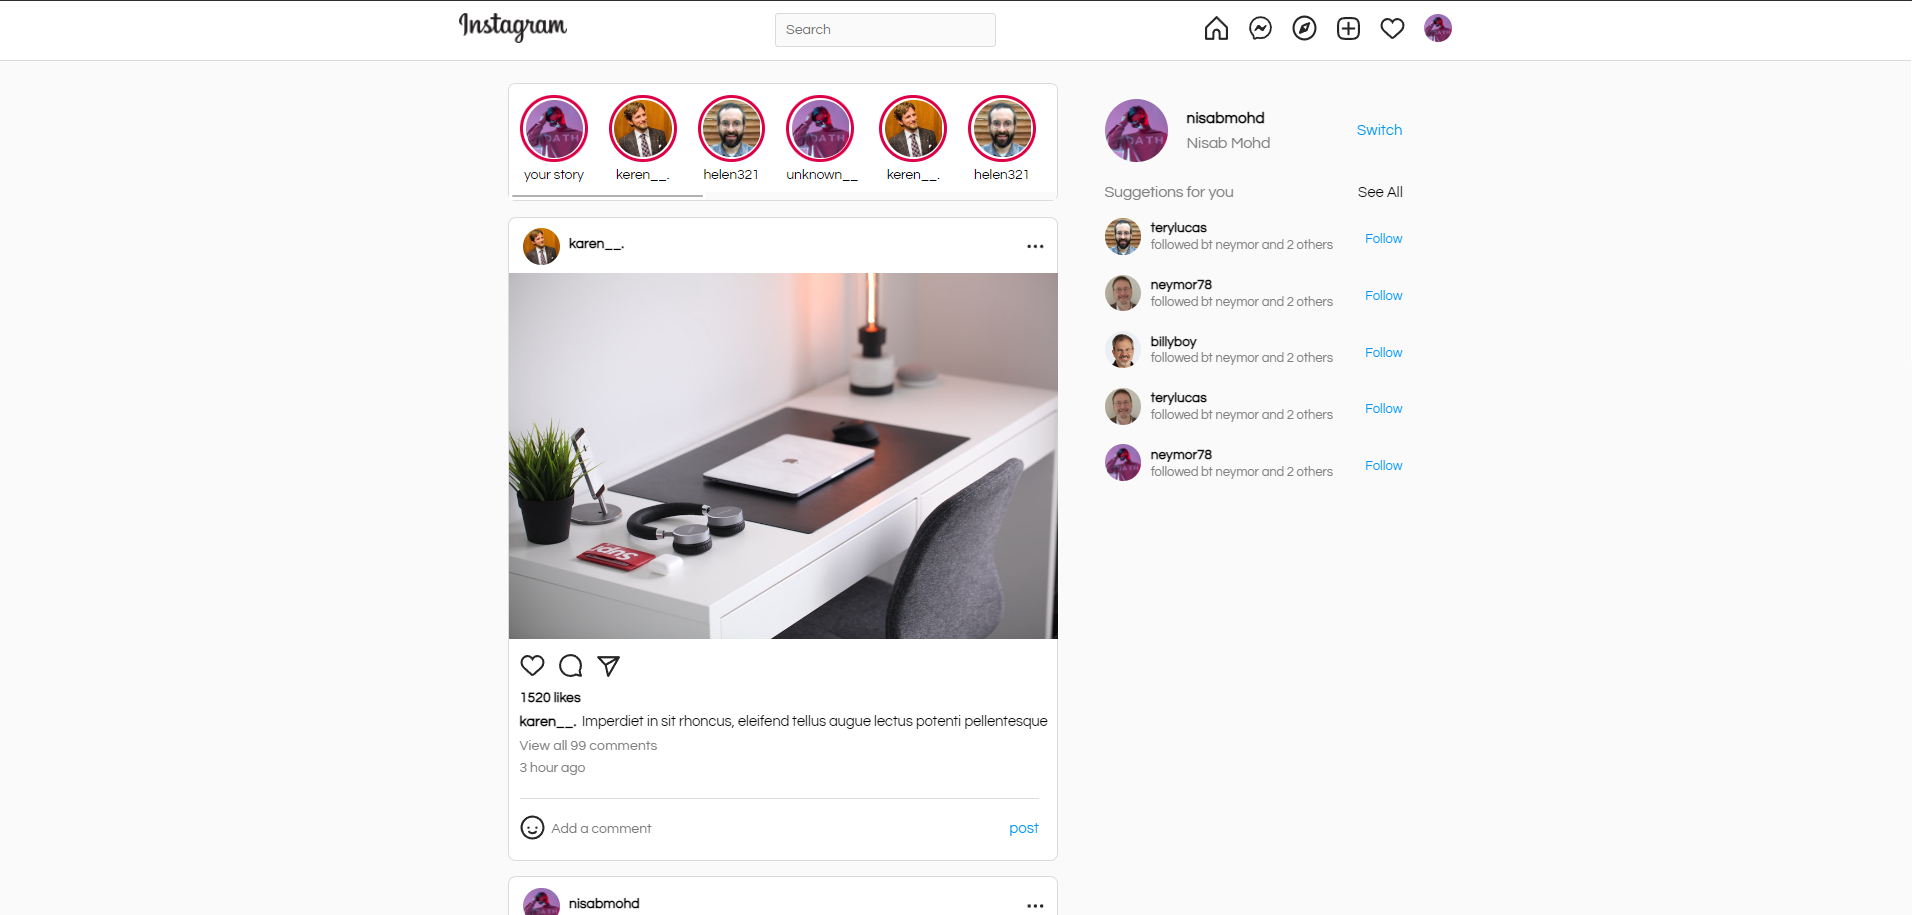
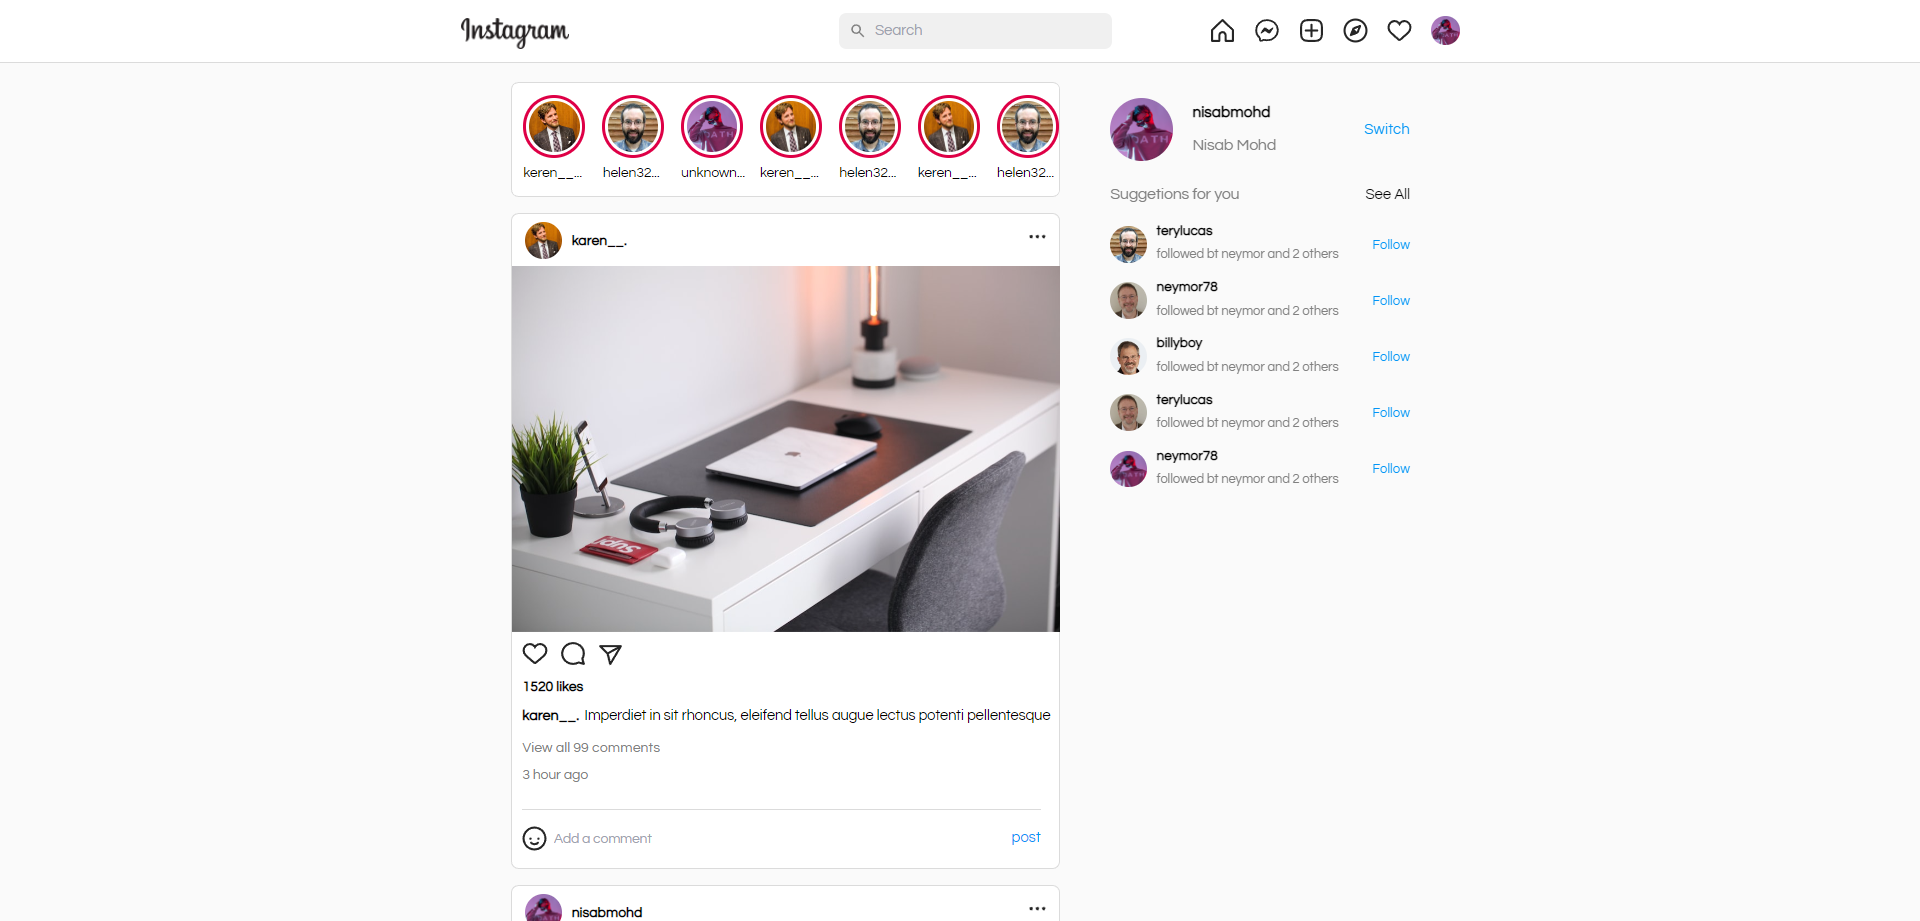
commit explore and notification ui

diff --git a/frontend/src/components/navbar/Navbar.jsx b/frontend/src/components/navbar/Navbar.jsx
@@ -84,7 +84,6 @@ export const Navbar = () => {
             id="account-menu"
             open={openNot}
             onClose={handleCloseNot}
-            onClick={handleCloseNot}
             PaperProps={{
               elevation: 0,
               sx: {
@@ -118,29 +117,23 @@ export const Navbar = () => {
           >
             <div style={{ height: '390px', display: 'flex', flexDirection: 'column', overflowY: 'scroll', }}>
 
-              <div style={{ fontSize: '14px', fontFamily: 'Questrial', borderBottom: '1px solid #d6d6d6', padding: '15px 15px' }}>
-                <Notification username="nisabmohd" avatar="https://firebasestorage.googleapis.com/v0/b/upload-pics-e599e.appspot.com/o/images%2F05407c79-a3dc-46d0-bc35-2b0b0a59374d.png?alt=media&token=65e0ba5c-5b86-463f-8364-d4f4ebc1ad8a" content="Followed you" time="13m" />
+              <div style={{ fontSize: '14px', fontFamily: 'Questrial',padding: '15px 25px' }}>
+                <Notification username="nisabmohd" avatar="https://firebasestorage.googleapis.com/v0/b/upload-pics-e599e.appspot.com/o/images%2F05407c79-a3dc-46d0-bc35-2b0b0a59374d.png?alt=media&token=65e0ba5c-5b86-463f-8364-d4f4ebc1ad8a" content="Started following you . " followbtn={true} time="13m" />
               </div>
-              <div style={{ fontSize: '14px', fontFamily: 'Questrial', borderBottom: '1px solid #d6d6d6', padding: '15px 15px' }}>
-                <Notification username="karen01" avatar="https://1.gravatar.com/avatar/767fc9c115a1b989744c755db47feb60?s=200&r=pg&d=mp" content="Commented on your post" time="13m" />
+              <div style={{ fontSize: '14px', fontFamily: 'Questrial',padding: '15px 25px' }}>
+                <Notification username="karen01" avatar="https://1.gravatar.com/avatar/767fc9c115a1b989744c755db47feb60?s=200&r=pg&d=mp" content="Commented : Nice Pic" time="13m" img={true} />
               </div>
-              <div style={{ fontSize: '14px', fontFamily: 'Questrial', borderBottom: '1px solid #d6d6d6', padding: '15px 15px' }}>
-                <Notification username="nisabmohd" avatar="https://firebasestorage.googleapis.com/v0/b/upload-pics-e599e.appspot.com/o/images%2F05407c79-a3dc-46d0-bc35-2b0b0a59374d.png?alt=media&token=65e0ba5c-5b86-463f-8364-d4f4ebc1ad8a" content="Followed you" time="13m" />
+              <div style={{ fontSize: '14px', fontFamily: 'Questrial',padding: '15px 25px' }}>
+                <Notification username="nisabmohd" avatar="https://firebasestorage.googleapis.com/v0/b/upload-pics-e599e.appspot.com/o/images%2F05407c79-a3dc-46d0-bc35-2b0b0a59374d.png?alt=media&token=65e0ba5c-5b86-463f-8364-d4f4ebc1ad8a" content="Started following you . " followbtn={true} time="13m" />
               </div>
-              <div style={{ fontSize: '14px', fontFamily: 'Questrial', borderBottom: '1px solid #d6d6d6', padding: '15px 15px' }}>
-                <Notification username="karen01" avatar="https://1.gravatar.com/avatar/767fc9c115a1b989744c755db47feb60?s=200&r=pg&d=mp" content="Commented on your post" time="13m" />
+              <div style={{ fontSize: '14px', fontFamily: 'Questrial',padding: '15px 25px' }}>
+                <Notification username="nisabmohd" avatar="https://firebasestorage.googleapis.com/v0/b/upload-pics-e599e.appspot.com/o/images%2F05407c79-a3dc-46d0-bc35-2b0b0a59374d.png?alt=media&token=65e0ba5c-5b86-463f-8364-d4f4ebc1ad8a" content="Started following you . " followbtn={true} time="13m" />
               </div>
-              <div style={{ fontSize: '14px', fontFamily: 'Questrial', borderBottom: '1px solid #d6d6d6', padding: '15px 15px' }}>
-                <Notification username="nisabmohd" avatar="https://firebasestorage.googleapis.com/v0/b/upload-pics-e599e.appspot.com/o/images%2F05407c79-a3dc-46d0-bc35-2b0b0a59374d.png?alt=media&token=65e0ba5c-5b86-463f-8364-d4f4ebc1ad8a" content="Followed you" time="13m" />
+              <div style={{ fontSize: '14px', fontFamily: 'Questrial',padding: '15px 25px' }}>
+                <Notification username="karen01" avatar="https://1.gravatar.com/avatar/767fc9c115a1b989744c755db47feb60?s=200&r=pg&d=mp" img={true} content="Liked your post" time="13m" />
               </div>
-              <div style={{ fontSize: '14px', fontFamily: 'Questrial', borderBottom: '1px solid #d6d6d6', padding: '15px 15px' }}>
-                <Notification username="karen01" avatar="https://1.gravatar.com/avatar/767fc9c115a1b989744c755db47feb60?s=200&r=pg&d=mp" content="Commented on your post" time="13m" />
-              </div>
-              <div style={{ fontSize: '14px', fontFamily: 'Questrial', borderBottom: '1px solid #d6d6d6', padding: '15px 15px' }}>
-                <Notification username="nisabmohd" avatar="https://firebasestorage.googleapis.com/v0/b/upload-pics-e599e.appspot.com/o/images%2F05407c79-a3dc-46d0-bc35-2b0b0a59374d.png?alt=media&token=65e0ba5c-5b86-463f-8364-d4f4ebc1ad8a" content="Followed you" time="13m" />
-              </div>
-              <div style={{ fontSize: '14px', fontFamily: 'Questrial', borderBottom: '1px solid #d6d6d6', padding: '15px 15px' }}>
-                <Notification username="karen01" avatar="https://1.gravatar.com/avatar/767fc9c115a1b989744c755db47feb60?s=200&r=pg&d=mp" content="Commented on your post" time="13m" />
+              <div style={{ fontSize: '14px', fontFamily: 'Questrial',padding: '15px 25px' }}>
+                <Notification username="nisabmohd" avatar="https://firebasestorage.googleapis.com/v0/b/upload-pics-e599e.appspot.com/o/images%2F05407c79-a3dc-46d0-bc35-2b0b0a59374d.png?alt=media&token=65e0ba5c-5b86-463f-8364-d4f4ebc1ad8a" content="Started following you . " followbtn={true} time="13m" />
               </div>
             </div>
 

diff --git a/frontend/src/components/explore/Masonary.jsx b/frontend/src/components/explore/Masonary.jsx
@@ -1,6 +1,5 @@
 import React from 'react'
-import Box from '@mui/material/Box';
-import { ImageList, ImageListItem } from '@mui/material';
+import { Image } from '../post/Image'
 
 export const Masonary = () => {
     const itemData = [
@@ -9,7 +8,7 @@ export const Masonary = () => {
             title: 'Fern',
         },
         {
-            img: 'https://images.unsplash.com/photo-1627308595229-7830a5c91f9f',
+            img: 'https://www.visitdubai.com/-/media/gathercontent/poi/s/skydive-dubai/fallback-image/sky-dive-dubai-3.jpg',
             title: 'Snacks',
         },
         {
@@ -17,7 +16,7 @@ export const Masonary = () => {
             title: 'Mushrooms',
         },
         {
-            img: 'https://images.unsplash.com/photo-1529655683826-aba9b3e77383',
+            img: 'https://images.unsplash.com/photo-1664575602276-acd073f104c1?ixlib=rb-4.0.3&ixid=MnwxMjA3fDF8MHxwaG90by1wYWdlfHx8fGVufDB8fHx8&auto=format&fit=crop&w=1170&q=80',
             title: 'Tower',
         },
         {
@@ -28,16 +27,13 @@ export const Masonary = () => {
             img: 'https://images.unsplash.com/photo-1558642452-9d2a7deb7f62',
             title: 'Honey',
         },
-        {
-            img: 'https://images.unsplash.com/photo-1516802273409-68526ee1bdd6',
-            title: 'Basketball',
-        },
+        
         {
             img: 'https://images.unsplash.com/photo-1551963831-b3b1ca40c98e',
             title: 'Breakfast',
         },
         {
-            img: 'https://images.unsplash.com/photo-1627328715728-7bcc1b5db87d',
+            img: 'https://images.unsplash.com/photo-1661956602868-6ae368943878?ixlib=rb-4.0.3&ixid=MnwxMjA3fDF8MHxwaG90by1wYWdlfHx8fGVufDB8fHx8&auto=format&fit=crop&w=1170&q=80',
             title: 'Tree',
         },
         {
@@ -53,7 +49,7 @@ export const Masonary = () => {
             title: 'Coffee',
         },
         {
-            img: 'https://images.unsplash.com/photo-1627000086207-76eabf23aa2e',
+            img: 'https://images.unsplash.com/photo-1666202566722-26e17e78cb07?ixlib=rb-4.0.3&ixid=MnwxMjA3fDB8MHxwaG90by1wYWdlfHx8fGVufDB8fHx8&auto=format&fit=crop&w=1169&q=80',
             title: 'Camping Car',
         },
         {
@@ -72,21 +68,19 @@ export const Masonary = () => {
             img: 'https://images.unsplash.com/photo-1589118949245-7d38baf380d6',
             title: 'Bike',
         },
+        {
+            img: 'https://images.unsplash.com/photo-1516802273409-68526ee1bdd6',
+            title: 'Basketball',
+        },
     ];
     return (
-        <Box sx={{ width: "100%", height: "fit-content", overflowY: 'scroll', }}>
-            <ImageList variant="masonry" cols={3} gap={22}>
-                {itemData.map((item) => (
-                    <ImageListItem key={item.img}>
-                        <img
-                            src={`${item.img}?w=308&fit=crop&auto=format`}
-                            srcSet={`${item.img}?w=248&fit=crop&auto=format&dpr=2 2x`}
-                            alt={item.title}
-                            loading="lazy"
-                        />
-                    </ImageListItem>
-                ))}
-            </ImageList>
-        </Box>
+        <div className='grid' style={{ display: 'grid', gridTemplateColumns: 'repeat(3,1fr)', rowGap: '17px', columnGap: '23px' }}>
+            {
+                itemData.map(item =>
+                    <Image key={item.title} src={item.img}></Image>
+
+                )
+            }
+        </div>
     )
 }

diff --git a/frontend/src/components/notification/Notification.jsx b/frontend/src/components/notification/Notification.jsx
@@ -1,16 +1,23 @@
 import React from 'react'
 
-export const Notification = ({ avatar, username, content, time }) => {
+export const Notification = ({ avatar, username, content, time, followbtn,img }) => {
     return (
         <div className='notification' style={{ display: 'flex', flexDirection: 'row' }}>
             <div className="user-img">
-                <img src={avatar && avatar} style={{ width: '40px', borderRadius: '50%', }} alt="" />
+                <img src={avatar && avatar} style={{ width: '44px', borderRadius: '50%', }} alt="" />
             </div>
             <div className="username" style={{ display: 'flex', flexDirection: 'row', alignItems: 'center' }}>
-                <p style={{ fontSize: '13px', marginLeft: '9px', fontWeight: 'bold', marginTop: '-1px' }}>{username && username}</p>
-                <p style={{ fontSize: '12.15px', marginLeft: '4.2px', color: 'black' }}>{content && content}</p>
-                <p style={{ fontSize: '12.15px', marginLeft: '4.2px', color: 'gray' }}>{time && time}</p>
+                <p style={{ fontSize: '13.67px', marginLeft: '9px', fontWeight: 'bold', marginTop: '-1px' }}>{username && username}</p>
+                <p style={{ fontSize: '12.99px', marginLeft: '4.2px', color: 'black' }}>{content && content}</p>
+                <p style={{ fontSize: '12.45px', marginLeft: '4.2px', color: 'gray' }}>{time && time}</p>
             </div>
+            {
+                followbtn && <button style={{ border: 'none', outline: 'none', background: 'blue', padding: '1px 5px', borderRadius: '5px', color: 'white', backgroundColor: '#2196f3', fontSize: '13px', width: '65px', fontWeight: 'bold', marginLeft: 'auto', height: '30px' }}>Follow</button>
+            }
+            {
+                img && <img style={{width:'45px',height:'45px',objectFit:'cover', marginLeft: 'auto',}} src="https://www.visitdubai.com/-/media/gathercontent/poi/s/skydive-dubai/fallback-image/sky-dive-dubai-3.jpg" alt="" />
+            }
+
         </div>
     )
 }

diff --git a/frontend/src/components/home/post/Card.jsx b/frontend/src/components/home/post/Card.jsx
@@ -1,9 +1,11 @@
 import React from "react";
+import { useRef } from "react";
 import { moreIcons, commentIcon, emojiIcon, likeOutline, shareIcon } from "../../../assets/svgIcons";
 
 import "./card.css";
 
 export default function Card({ img, likes, avatar, username, caption, time, comments }) {
+    const commentRef=useRef()
     return (
         <div className="card">
             <div className="user-details" style={{ marginBottom: '7px', display: 'flex', flexDirection: 'row', alignItems: 'center', justifyContent: 'space-between' }}>
@@ -29,7 +31,7 @@ export default function Card({ img, likes, avatar, username, caption, time, comm
                 <button className="no-style" style={{ marginRight: '12px' }} >
                     {likeOutline}
                 </button>
-                <button className="no-style" style={{ marginRight: '12px' }} >
+                <button onClick={()=>{commentRef.current.focus()}} className="no-style" style={{ marginRight: '12px' }} >
                     {commentIcon}
                 </button>
                 <button className="no-style" style={{ marginRight: '12px', marginBottom: '-3px', }} >
@@ -46,7 +48,7 @@ export default function Card({ img, likes, avatar, username, caption, time, comm
                 <button className="no-style" >
                     {emojiIcon}
                 </button>
-                <input type="text" placeholder="Add a comment" style={{ width: '87%', height: '22px', outline: 'none', border: 'none',fontSize:'13px' }} />
+                <input ref={commentRef} type="text" placeholder="Add a comment" style={{ width: '87%', height: '22px', outline: 'none', border: 'none',fontSize:'13px',paddingLeft:'9px' }} />
                 <button className="no-style" style={{ color: '#0095F6', fontSize: '14.25px' }}>post</button>
             </div>
         </div>

diff --git a/frontend/src/components/home/stories/Story.jsx b/frontend/src/components/home/stories/Story.jsx
@@ -3,8 +3,8 @@ import React from 'react'
 export default function Story({ avatar, username, seen }) {
   return (
     <div style={{ display: 'flex', flexDirection: 'column', margin: '0 10px', width: '55px' }}>
-      <div className="image" style={{ width: '59px', height: '59px', border: !seen && '3px solid #DE0046' , borderRadius: '50%',marginBottom: '5px',display:'flex',alignItems:"center",justifyContent:'center' }}>
-        <img src={avatar && avatar} style={{ width: '56px', height: '56px', borderRadius: '50%', padding: '4px'}} alt="" />
+      <div className="image" style={{ width: '64px', height: '64px', border: !seen && '3px solid #DE0046' , borderRadius: '50%',marginBottom: '5px',display:'flex',alignItems:"center",justifyContent:'center' }}>
+        <img src={avatar && avatar} style={{ width: '62px', height: '62px', borderRadius: '50%', padding: '4px'}} alt="" />
       </div>
       <p style={{ fontSize: '13px', textAlign: 'center' }}>{username && username.slice(0, 7) + "..."}</p>
     </div>

diff --git a/frontend/src/components/post/Image.jsx b/frontend/src/components/post/Image.jsx
@@ -3,7 +3,7 @@ import React from 'react'
 export const Image = ({src}) => {
   return (
     <div>
-        <img style={{width:'300px',height:'295px',objectFit:'cover'}} src={src} alt="" />
+        <img style={{width:'300px',height:'295px',objectFit:'cover',margin:'auto'}} src={src} alt="" />
     </div>
   )
 }
